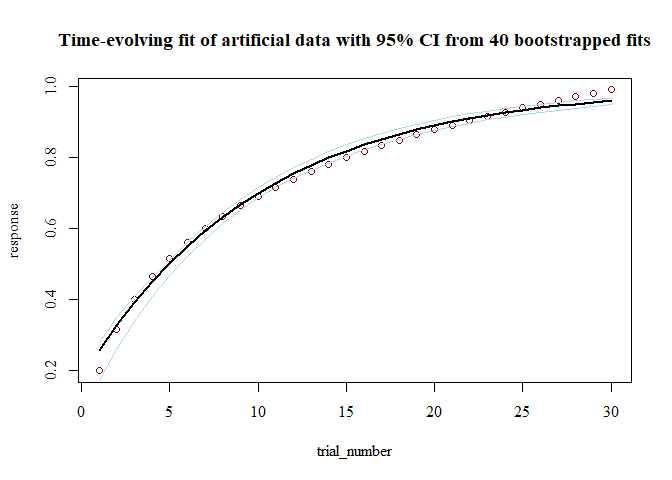
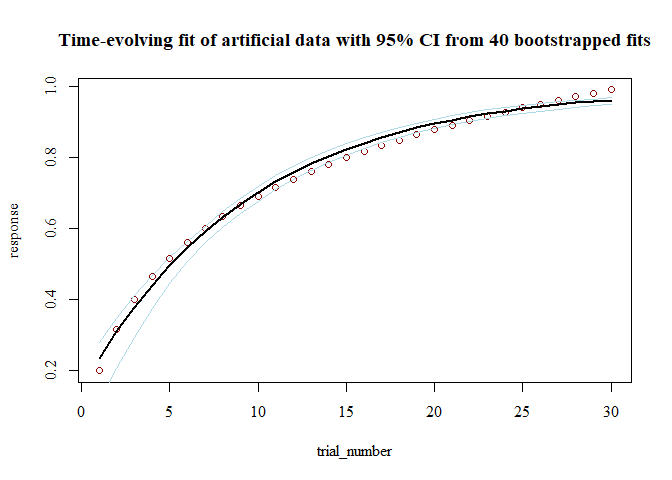
update examples

Changed region(s): [[0.3438, 0.1875, 0.9062, 0.4375], [0.125, 0.4688, 0.3125, 0.75], [0.3125, 0.4375, 0.3438, 0.4688]]

diff --git a/README.md b/README.md
@@ -2,7 +2,7 @@
 TEfits
 ======
 
-[![DOI](https://zenodo.org/badge/225967950.svg)](https://zenodo.org/badge/latestdoi/225967950) [![Build Status](https://travis-ci.com/akcochrane/TEfits.svg?branch=master)](https://travis-ci.com/akcochrane/TEfits)
+[![License: MIT](https://img.shields.io/badge/License-MIT-yellow.svg)](https://opensource.org/licenses/MIT) [![DOI](https://zenodo.org/badge/225967950.svg)](https://zenodo.org/badge/latestdoi/225967950) [![Build Status](https://travis-ci.com/akcochrane/TEfits.svg?branch=master)](https://travis-ci.com/akcochrane/TEfits)
 
 Overview to Time-Evolving fits
 ------------------------------
@@ -79,12 +79,6 @@ dat <- data.frame(response=log(2:31)/log(32),trial_number=1:30)
 mod_boot <- TEfit(dat[,c('response','trial_number')], 
              errFun='bernoulli',
              bootPars=tef_bootList(resamples = 40))
-```
-
-    ## 
-    ## Warning: model did not converge at tol = 0.05 . Consider respecifying, allowing more runs, or increasing the convergence tolerance.
-
-``` r
 plot(mod_boot,plot_title='Time-evolving fit of artificial data with 95% CI from 40 bootstrapped fits')
 ```
 
@@ -97,24 +91,23 @@ summary(mod_boot)
     ## 
     ## >> Formula: response~((pAsym) + ((pStart) - (pAsym)) * 2^((1 - trial_number)/(2^(pRate))))
     ## 
-    ## >> Converged: FALSE 
-    ## >> Max runs: 200  -- Tolerance: 0.05 
+    ## >> Converged: TRUE 
     ## 
     ## >> Fit Values:
-    ##        Estimate  Q025 Q975 pseudoSE
-    ## pAsym     1.000 0.987 1.00    0.003
-    ## pRate     2.780 2.562 2.87    0.079
-    ## pStart    0.257 0.172 0.28    0.028
+    ##        Estimate  Q025  Q975 pseudoSE
+    ## pAsym     0.998 0.987 1.000    0.003
+    ## pRate     2.715 2.531 2.827    0.076
+    ## pStart    0.233 0.112 0.279    0.043
     ## 
     ## >> Goodness-of-fit:
-    ##                err  nullErr nPars nObs      BIC  nullBIC   deltaBIC
-    ## bernoulli 13.42766 16.83409     3   30 37.05891 37.06937 -0.0104599
+    ##                err  nullErr nPars nObs      BIC  nullBIC    deltaBIC
+    ## bernoulli 13.42559 16.83409     3   30 37.05477 37.06937 -0.01460234
     ## 
     ## >> Test of change in nonindependence:
     ##                          rawSpearman modelConditionalSpearman
-    ## response ~ trial_number:          -1               -0.3036707
+    ## response ~ trial_number:          -1               -0.1065628
     ##                          proportionalSpearmanChange pValSpearmanChange
-    ## response ~ trial_number:                  0.3036707                  0
+    ## response ~ trial_number:                  0.1065628                  0
     ##                          pval_KPSS_null pval_KPSS_model
     ## response ~ trial_number:          < .01            > .1
     ## 
@@ -123,11 +116,11 @@ summary(mod_boot)
     ## >> Timepoint at which resampled estimates diverge from timepoint 1, with Cohen's d>1: 2 
     ## 
     ## >> Bootstrapped parameter correlations:
-    ##         pAsym pStart pRate   err
-    ## pAsym   1.000 -0.033 0.255 0.161
-    ## pStart -0.033  1.000 0.738 0.449
-    ## pRate   0.255  0.738 1.000 0.159
-    ## err     0.161  0.449 0.159 1.000
+    ##         pAsym pStart pRate    err
+    ## pAsym   1.000 -0.211 0.169 -0.230
+    ## pStart -0.211  1.000 0.690  0.471
+    ## pRate   0.169  0.690 1.000  0.110
+    ## err    -0.230  0.471 0.110  1.000
 
 Fitting multiple models
 -----------------------
@@ -166,8 +159,8 @@ summary(mod_4group)
     ## 
     ## >> Overall effects:
     ##             pAsym     pStart      pRate
-    ## mean   0.14922723 0.01639030 3.83366568
-    ## stdErr 0.03933406 0.01060451 0.02431531
+    ## mean   0.14922724 0.01639031 3.83366584
+    ## stdErr 0.03933406 0.01060452 0.02431516
     ## 
     ##                 err    nullErr nPars nObs      Fval         Pval   Rsquared
     ## mean   3.005041e-04 0.03071614     3   30 1692.5939 1.110223e-16 0.97598962
@@ -209,7 +202,7 @@ TElm parameter estimates:
 
 |  X.Intercept.|  trial\_number|   rate|
 |-------------:|--------------:|------:|
-|         3.523|         -2.654|  2.869|
+|         3.522|         -2.653|  2.867|
 
 TEfit parameter estimates:
 
